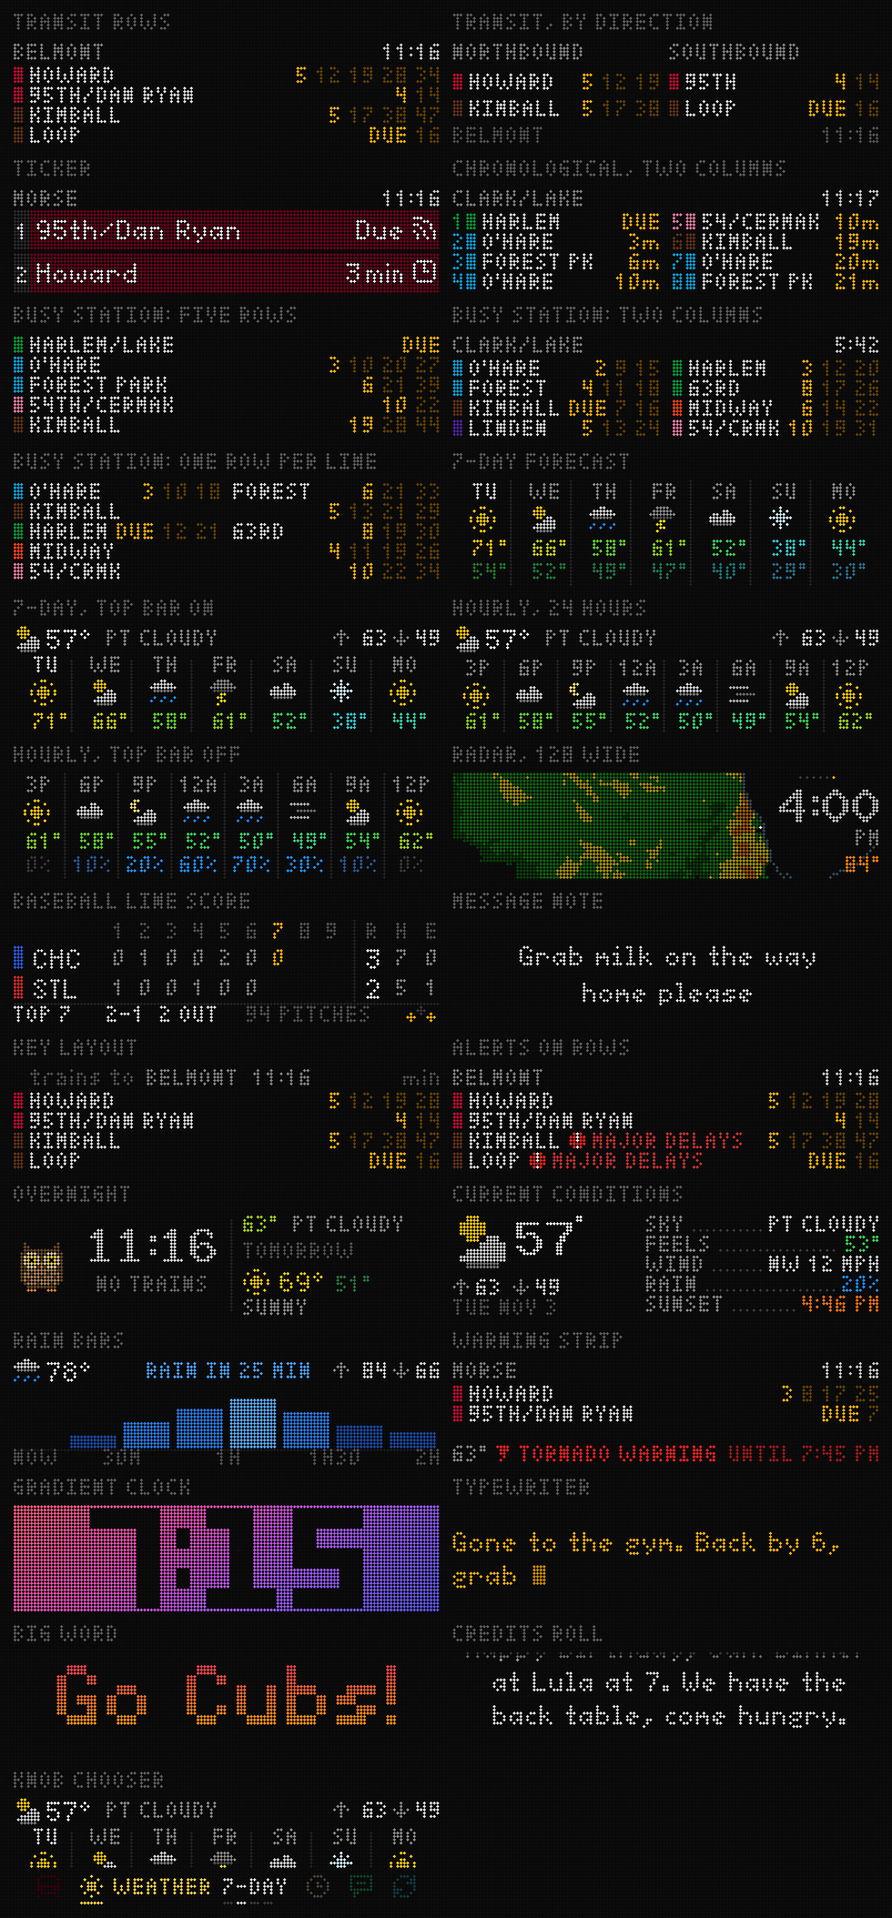
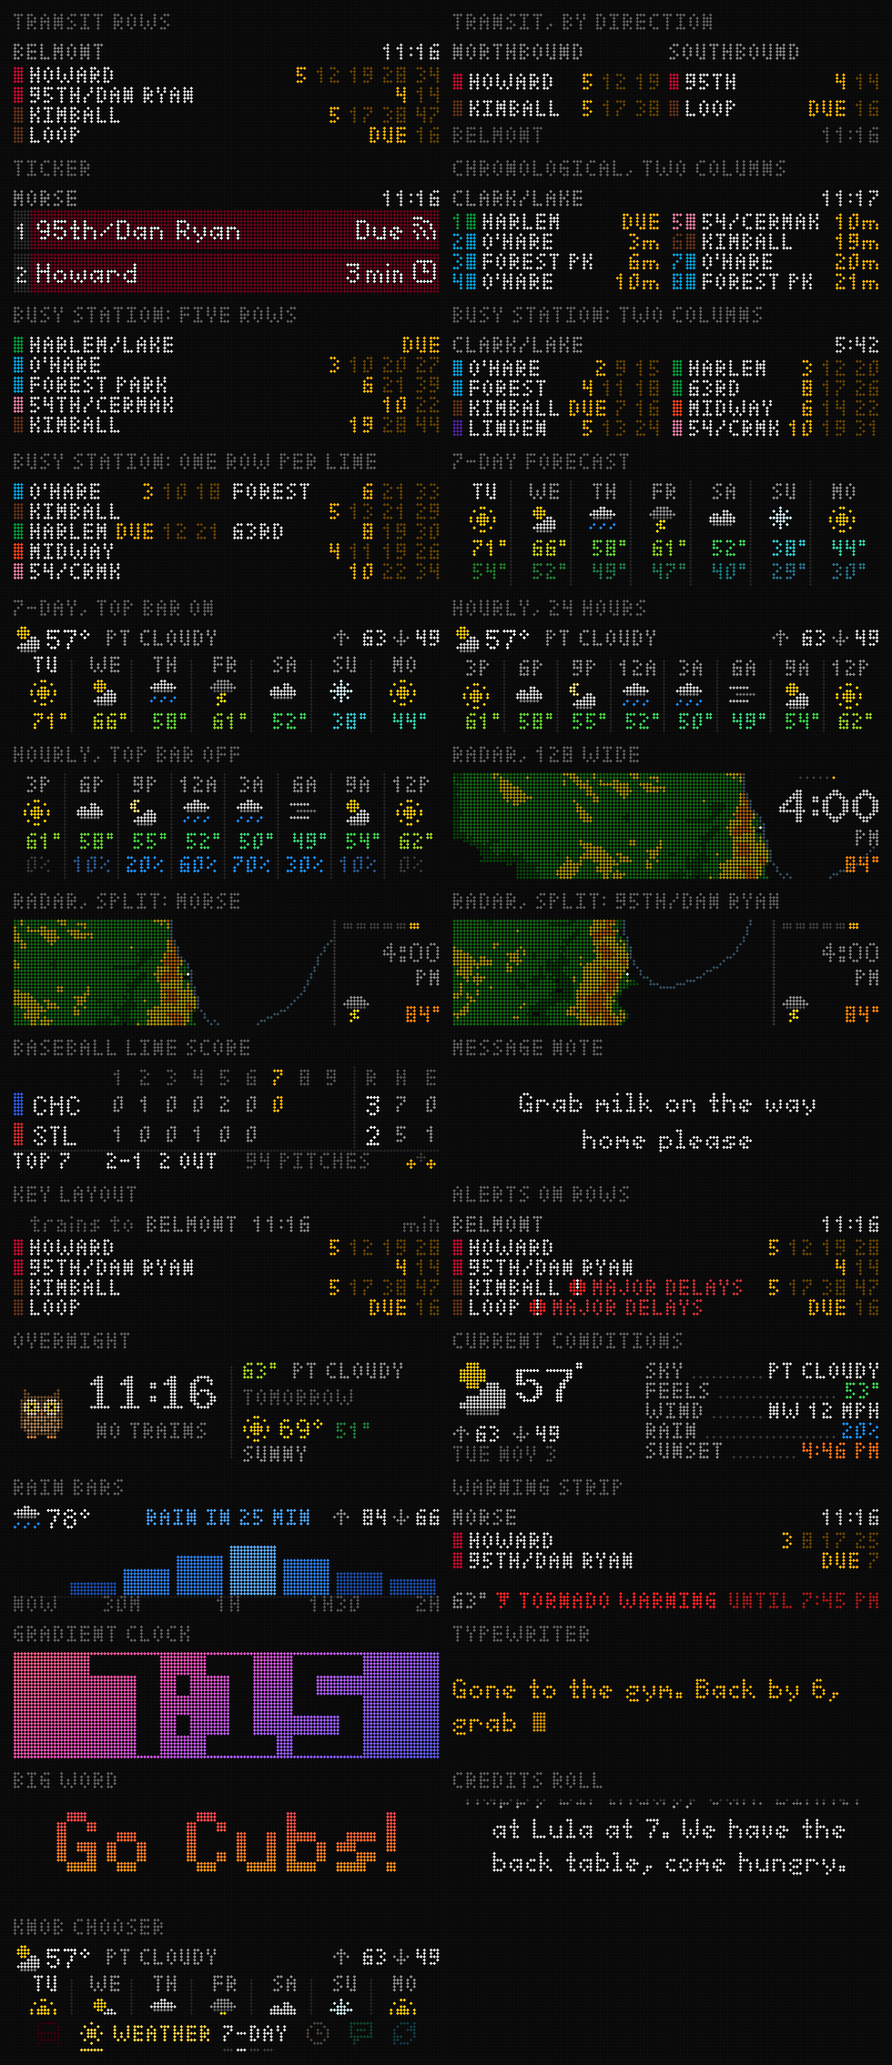
Plan the 128x32 screens (docs/board/wide-spec.md)
Every screen at 128 wide with its status from review: decided, liked,
first pass or open; open questions; and what the server, draw.js,
draw.cpp and firmware would need. Adds a split radar layout for every
station: a fixed time box over the lake fails at 56 of 144 stations.

Claude-Session: https://claude.ai/code/session_01G1nRWyZ7ESNyz7GfjXtnvu

diff --git a/scripts/mock-128-screens.js b/scripts/mock-128-screens.js
@@ -227,48 +227,66 @@ function hourly({ top = true } = {}) {
 }
 
 // Wide radar: a real MRMS frame (the Aug 10, 2020 derecho at 4 PM) cropped 128 LEDs wide.
-async function wideRadar() {
-  const stamp = '202008102100';
-  const st = require(path.join(B, 'stations.json')).find((x) => x.mapid === '40100'); // Morse
+// Radar layer: a real MRMS frame cropped `width` LEDs wide at 1.5 mi/LED with
+// the station at column `sx`, drawn into columns 0..width-1 of f. Water is
+// masked from the lake outline (as build-locations.js does per station at 64).
+async function radarLayer(f, mapid, width, sx, stamp = '202008102100') {
+  const st = require(path.join(B, 'stations.json')).find((x) => x.mapid === mapid);
   const wld = radar.parseWld(fs.readFileSync(path.join(B, 'fixtures', 'mrms', `lcref_${stamp}.wld`), 'utf8'));
-  // Centre the crop 28 LEDs west of the station, so it sits at x 92 and the lake fills the right side.
-  const KM = 1.5 * 1.609344, shift = 28;
+  const KM = 1.5 * 1.609344, shift = sx - Math.floor(width / 2);
   const lonC = st.lon - (shift * KM) / (111.32 * Math.cos(st.lat * Math.PI / 180));
-  const crop = await radar.crops(fs.createReadStream(path.join(B, 'fixtures', 'mrms', `lcref_${stamp}.png`)), wld, [{ key: 'k', lat: st.lat, lon: lonC, width: W }]);
+  const crop = await radar.crops(fs.createReadStream(path.join(B, 'fixtures', 'mrms', `lcref_${stamp}.png`)), wld, [{ key: 'k', lat: st.lat, lon: lonC, width }]);
   const { dbz } = crop.get('k');
-  // Water mask from the lake outline (what build-locations.js does per station at 64).
-  const lake = JSON.parse(fs.readFileSync(path.join(__dirname, 'geo-src', 'lake-michigan.geojson'), 'utf8')).features[0].geometry.coordinates;
-  const inPoly = (lon, lat) => lake.some((ring) => { let c = false; for (let i = 0, j = ring.length - 1; i < ring.length; j = i++) { const [xi, yi] = ring[i], [xj, yj] = ring[j]; if ((yi > lat) !== (yj > lat) && lon < ((xj - xi) * (lat - yi)) / (yj - yi) + xi) c = !c; } return c; }) ;
+  const rings = JSON.parse(fs.readFileSync(path.join(__dirname, 'geo-src', 'lake-michigan.geojson'), 'utf8')).features[0].geometry.coordinates;
+  const inR = (ring, lon, lat) => { let c = false; for (let a = 0, b = ring.length - 1; a < ring.length; b = a++) { const [xi, yi] = ring[a], [xj, yj] = ring[b]; if ((yi > lat) !== (yj > lat) && lon < ((xj - xi) * (lat - yi)) / (yj - yi) + xi) c = !c; } return c; };
   const colsPer = KM / (wld.dx * 111.32 * Math.cos(st.lat * Math.PI / 180)), rowsPer = KM / (Math.abs(wld.dy) * 111.32);
-  const sx = (lonC - wld.x0) / wld.dx, sy = (st.lat - wld.y0) / wld.dy;
-  const left = sx - (64 + 0.5) * colsPer, top = sy - (16 + 0.5) * rowsPer;
-  const water = new Uint8Array(W * H);
-  for (let y = 0; y < H; y++) for (let x = 0; x < W; x++) {
+  const cx = (lonC - wld.x0) / wld.dx, cy = (st.lat - wld.y0) / wld.dy;
+  const left = cx - (Math.floor(width / 2) + 0.5) * colsPer, top = cy - (16 + 0.5) * rowsPer;
+  const water = new Uint8Array(width * H);
+  for (let y = 0; y < H; y++) for (let x = 0; x < width; x++) {
     const lon = wld.x0 + (left + (x + 0.5) * colsPer) * wld.dx, lat = wld.y0 + (top + (y + 0.5) * rowsPer) * wld.dy;
-    water[y * W + x] = inPoly(lon, lat) ? 1 : 0;
+    water[y * width + x] = inR(rings[0], lon, lat) && !rings.slice(1).some((r) => inR(r, lon, lat)) ? 1 : 0;
   }
-  const RAIN = [15, 25, 35, 45, 55];
-  const lv = new Uint8Array(W * H);
+  const RAIN = [15, 25, 35, 45, 55], lv = new Uint8Array(width * H);
   for (let k = 0; k < lv.length; k++) { let n = 0; while (n < RAIN.length && dbz[k] >= RAIN[n]) n++; lv[k] = water[k] ? 0 : n; }
-  const f = new Frame(W, H);
-  for (let y = 0; y < H; y++) for (let x = 0; x < W; x++) {
-    const v = lv[y * W + x];
+  for (let y = 0; y < H; y++) for (let x = 0; x < width; x++) {
+    const v = lv[y * width + x];
     if (!v) continue;
     let n = 0;
-    for (let dy = -1; dy <= 1; dy++) for (let dx = -1; dx <= 1; dx++) if ((dx || dy) && x + dx >= 0 && y + dy >= 0 && x + dx < W && y + dy < H && lv[(y + dy) * W + x + dx]) n++;
+    for (let dy = -1; dy <= 1; dy++) for (let dx = -1; dx <= 1; dx++) if ((dx || dy) && x + dx >= 0 && y + dy >= 0 && x + dx < width && y + dy < H && lv[(y + dy) * width + x + dx]) n++;
     if (n >= 2) f.set(x, y, hex(draw.RADAR[v]));
   }
-  for (let y = 0; y < H; y++) for (let x = 0; x < W; x++) {
-    if (!water[y * W + x]) continue;
-    const land = [[1, 0], [-1, 0], [0, 1], [0, -1]].some(([dx, dy]) => { const xx = x + dx, yy = y + dy; return xx >= 0 && yy >= 0 && xx < W && yy < H && !water[yy * W + xx]; });
+  for (let y = 0; y < H; y++) for (let x = 0; x < width; x++) {
+    if (!water[y * width + x]) continue;
+    const land = [[1, 0], [-1, 0], [0, 1], [0, -1]].some(([dx, dy]) => { const xx = x + dx, yy = y + dy; return xx >= 0 && yy >= 0 && xx < width && yy < H && !water[yy * width + xx]; });
     if (land) f.set(x, y, hex(draw.RADAR[6]));
   }
-  f.set(64 + shift, 16, [255, 255, 255]);
-  // Time stack over the lake, as in the 64 layout.
+  f.set(sx, 16, [255, 255, 255]);
+}
+
+// Wide radar over the lake: the station at x 92, the time stack over the water.
+async function wideRadar() {
+  const f = new Frame(W, H);
+  await radarLayer(f, '40100', W, 92);
   rtext(f, 'clock', '4:00', 127, 15, C.clock);
   rtext(f, 'small', 'PM', 127, 22, C.radarAmpm);
   rtext(f, 'small', '84°', 127, 30, tempColor(84));
   for (let i = 0; i < 6; i++) f.set(104 + i * 2, 1, hex(i === 5 ? C.amber : C.indicator));
+  return f;
+}
+
+// Split radar, every station: the map on columns 0-95 with the station at
+// x 52 (more room west, where storms come from), a divider on column 96 and
+// a 31-column panel: frame pips, time and AM/PM, conditions at the bottom.
+async function splitRadar(mapid) {
+  const f = new Frame(W, H);
+  await radarLayer(f, mapid, 96, 52);
+  f.fill(96, 0, 1, 32, C.divider);
+  for (let i = 0; i < 6; i++) f.fill(99 + i * 4, 1, 3, 2, i === 5 ? C.amber : C.indicator);
+  rtext(f, '5x7', '4:00', 127, 13, C.radarTime);
+  rtext(f, 'small', 'PM', 127, 20, C.radarAmpm);
+  icon(f, 'storm', 99, 23);
+  rtext(f, 'small', '84°', 127, 31, tempColor(84));
   return f;
 }
 
@@ -531,7 +549,9 @@ async function main() {
     ['redrawn', 'seven-day-top', '7-day, top bar on', 'The current-conditions bar as an option: with it on, the lows drop out.', '', sevenDay({ top: true })],
     ['redrawn', 'hourly', 'Hourly, 24 hours', 'Eight 3-hour steps under the top bar.', 'The server builds 4 slots today (HOUR_STEPS); the NWS hourly feed covers more.', hourly()],
     ['redrawn', 'hourly-notop', 'Hourly, top bar off', 'Without the bar the freed rows carry each slot\'s rain chance (bright from 20%).', '', hourly({ top: false })],
-    ['redrawn', 'radar', 'Radar, 128 wide', 'A real MRMS frame (the Aug 10, 2020 derecho) cropped 128 LEDs wide: about 190 mi of the region instead of 95. The station sits right of center; the time stack moves over the lake.', 'Each station needs a new water mask at 128 (built here from the lake outline).', null],
+    ['redrawn', 'radar', 'Radar, 128 wide', 'A real MRMS frame (the Aug 10, 2020 derecho) cropped 128 LEDs wide, the time over the lake. Works for Morse, but no fixed spot for the time box is open water for all stations: it fails at 56 of 144 (the South Side and the Loop, where the box reaches the Indiana shore).', 'Checked against every station in stations.json with the lake outline.', null],
+    ['redrawn', 'radar-split', 'Radar, split: Morse', 'One layout for every station: the map on 96 columns with the station at x 52, so it shows about 78 mi west (where storms come from) and the lake to the Michigan shore; the time and conditions in a 31-column panel.', 'Real MRMS frame, Aug 10, 2020, 4 PM (the derecho).', null],
+    ['redrawn', 'radar-split-south', 'Radar, split: 95th/Dan Ryan', 'The same layout at a South Side station, where no fixed spot over the lake works for the time.', 'Same frame.', null],
     ['redrawn', 'line-score', 'Baseball line score', 'Runs by inning, R H E, then the count, outs, pitch count and bases.', 'The innings come in the linescore the server already fetches; the pitch count would need a field added.', lineScore()],
     ['redrawn', 'note', 'Message note', 'About 21 characters a line in 5x7 instead of 10.', '', note()],
     ['more', 'key-layout', 'Key layout', 'The column key on the top row (trains to, min), with the station and clock between them instead of moving to the bottom.', 'Real Belmont times.', keyLayout()],
@@ -540,13 +560,15 @@ async function main() {
     ['more', 'now', 'Current conditions', 'A 2x icon and the temperature in the clock digits, high/low and date under them; the readout (sky, feels, wind, rain, sunset) beside, with dot leaders.', '', nowReadout()],
     ['more', 'rain-bars', 'Rain bars', 'The eight quarter-hours across the full width, 16 px each, with time marks under them; light, moderate and heavy in three blues.', '', rainBars()],
     ['more', 'warning', 'Warning strip', 'The warning spelled out on the bottom strip: funnel, TORNADO WARNING and the expiry, with the temperature at left.', 'The 64 strip has room for WARNING only. Blinks as it does now.', warningStrip()],
-    ['more', 'gradient', 'Gradient clock', 'The same block digits widened to 21 x 30 (7 x 6 blocks) so the time fills the width as it does at 64; the gradient spans all 128 columns.', '12:58 is 110 px wide.', gradient()],
+    ['more', 'gradient', 'Gradient clock', 'The same block digits widened to 21 x 30 (7 x 6 blocks) so the time fills the width as it does at 64; the gradient spans all 128 columns.', '12:58 is 108 px wide.', gradient()],
     ['more', 'typewriter', 'Typewriter', 'About 21 characters a line instead of 10, so most notes fit in two lines. Shown mid-typing.', '', typewriter()],
     ['more', 'big-word', 'Big word', 'At 3x instead of 2x: 21 px letters, up to about 7 characters; longer words drop to 2x (about 10).', '', bigWord()],
     ['more', 'credits', 'Credits roll', 'Wider lines mean fewer of them; the roll and its fade at the edges stay the same.', 'Mid-roll.', credits()],
     ['more', 'chooser', 'Knob chooser', 'The peek chooser with room to name things: the chosen category and its variant are spelled out beside its icon, with one pip per variant under the name.', 'The view on top is the 7-day with the top bar.', chooser()],
   ];
   MOCKS.find((m) => m[1] === 'radar')[5] = await wideRadar();
+  MOCKS.find((m) => m[1] === 'radar-split')[5] = await splitRadar('40100');
+  MOCKS.find((m) => m[1] === 'radar-split-south')[5] = await splitRadar('40450');
 
   const q5 = (v) => v & 0xf8;
   fs.mkdirSync(OUT, { recursive: true });

diff --git a/docs/board/wide-spec.md b/docs/board/wide-spec.md
@@ -1,0 +1,154 @@
+# CTA LED Board: Wide Board (128 × 32) Screen Plan
+
+**Status: planned, not built.** How each screen should look on a board of two 64 × 32 panels chained (128 × 32). Nothing in `server/board/` or the firmware supports the width yet; §11 lists what would have to change. Anything this plan doesn't mention works as in [`design-spec.md`](design-spec.md) (fonts, colors, row anatomy, animations, fitting rules).
+
+Mockups: `docs/board/mockups/w128/`, rendered by `scripts/mock-128-screens.js`, `mock-128-clocks.js` and `mock-128-worldmap.js` with the board's fonts and LED preview. Decisions from the review of Nov 4, 2026; each section says whether it's **decided**, **liked**, a **first pass**, or **open**.
+
+---
+
+## 1. Hardware
+
+| Item | Notes |
+|---|---|
+| Panels | Two 64 × 32 P4 panels chained: 512 × 128 mm, twice the length of the current bar case. |
+| Driver | The S3's ESP32-HUB75-MatrixPanel-DMA driver chains panels (chain length 2). The frame buffer and the power at full white double. |
+| Board | Matrix Portal S3 only. The frozen M4 stays 64 wide. |
+
+## 2. Principles
+
+- **One screen, not two.** Use the width; don't put two existing 64-wide screens side by side. The exceptions are splits whose halves mean something (northbound | southbound) and designed side panels (the day/night sun panel, the analog calendar).
+- **Same type, colors and rows as 64.** Tom Thumb, 5x7, the clock digits; 5 px text rows at the 64 layouts' pitches (6 px with a header, 8 px for three rows); the same header, amber/dim times, line blocks and glyphs. Text runs to the edges (x0 and x127).
+- **Where the width goes:** full names, more times per row, more destinations, more forecast slots, and words spelled out where 64 uses a glyph or a cut name.
+- **Halves** (splits, two-column lists): columns 0–61 and 65/66–127, a 3–4 px gutter between them.
+
+---
+
+## 3. Transit
+
+### Destination rows (decided)
+- Same anatomy and row geometry as 64 (§5): header on rows 0–6 (station `#808080` left, clock right), rows at 8, 14, 20, 26 with four rows, 1, 7, 13, 19, 25 with five and no header.
+- **Full CTA names** (`95TH/DAN RYAN`, `FOREST PARK`), **up to 5 times** per row, right-aligned as a group as now. A time is dropped when it would come within 3 px of the name.
+- **No weather in the header** (station and clock only). The weather strip stays an option as at 64.
+
+### Northbound | southbound split (liked)
+- Two halves, a direction label on row 0 of each (`NORTHBOUND`, `SOUTHBOUND`), rows at 10 and 18 (2 rows) in each half, station and clock on the bottom row in `#555555`.
+- A per-board layout choice next to header and key. Halves come from each train's direction code (`trDr` in Train Tracker). Labels per line pair need a small table (Loop lines aren't north/south).
+
+### Busy stations, replacing the chronological view (open)
+The chronological view is the weakest transit screen. For stations with 4–5 lines (Clark/Lake), three layouts were mocked:
+1. **One row per line:** up to 5 lines; a line's second destination starts at column 66 (`O'HARE 3 10 18 | FOREST 6 21 33`). Short names (`destinations.js`), three times per destination.
+2. **Two columns of four under the header:** up to 8 destinations, short names, three times each.
+3. **Five rows, no header:** full names; only for five destinations or fewer.
+
+**Proposed fitting order:** destination rows (as many as fit) → one row per line (≤ 5 lines, ≤ 2 destinations each) → two columns (≤ 8) → chronological view as the last resort. Re-checked on every update, as now.
+
+### Key layout (first pass)
+`trains to` (x5) and `min` (right) on row 0 as now, with the station and clock centered between them, so the station line at the bottom isn't needed.
+
+### Alerts (first pass)
+The full destination, the red alert circle, then the alert's **short label in red** (`MAJOR DELAYS`), then the times. Needs a new payload field with a short label per alert; the board knows only that a line has a major alert today.
+
+### Overnight, no data, stale (first pass)
+Owl and big clock with `NO TRAINS` as now in columns 0–62; a dim divider on column 65; the right side shows the current temperature and condition, then `TOMORROW` with icon, high (5x7) and low, and the condition. `NO DATA` and stale use the same layout with the red line across the top.
+
+### Ticker (decided)
+After the CTA's platform signs:
+- Bands at rows 7–18 and 20–31; the grey index column (0–4) with the **row number**; the band in the line color at 55 % from column 5 to 127.
+- **Full destination** in 5x7 at x7 (`95th/Dan Ryan`).
+- **Time at the far right** (`Due`, `3 min`, the min glyph as now), 3 px clear of the status icon.
+- **Status icon**, 7 × 7 at columns 120–126: three arcs for a live train, a clock face for a schedule-based one (`isSch`).
+- Pages of two, as now.
+
+### Warnings on the weather strip (first pass)
+Spelled out: glyph, `TORNADO WARNING` and `UNTIL 7:45 PM` in a dimmer red, the temperature at left. Needs the alert's expiry in the payload. Blinking as now.
+
+---
+
+## 4. Weather
+
+### Top bar (decided: optional)
+The current-conditions bar (icon, temperature, condition, ↑high ↓low) becomes a **per-board setting**. Off, its eight rows go to the layout below; on, layouts give something up (below).
+
+### 7-day forecast (liked)
+Seven 18-px columns split by dim dividers: weekday, icon, high (temperature color), low (60 %). With the top bar on, the lows drop out. NWS already gives seven days.
+
+### Hourly, 24 hours (liked)
+Eight 16-px columns, 3 hours apart: time, icon, temperature. With the top bar off, a fourth line shows each slot's rain chance (blue from 20 %, dim below). The server builds 4 slots today (`HOUR_STEPS`); the NWS hourly feed covers 24 hours.
+
+### Current conditions (first pass)
+A 2× icon (16 × 16) and the temperature in the clock digits, high/low and date under them on the left; the readout on the right (columns 58–127) with dot leaders: `SKY`, `FEELS`, `WIND`, `RAIN`, `SUNSET`.
+
+### Rain bars (first pass)
+The top bar with the title centered (`RAIN IN 25 MIN`); the eight quarter-hours across the full width (16 px each, 14 px bars), the same intensity scale and blues; `NOW 30M 1H 1H30 2H` under the axis.
+
+---
+
+## 5. Radar (open; proposed: split for every station)
+
+At 64, each station gets a full-width map with the time over open water, or a split layout when there's no water there (114 of 144 stations get full width). At 128 that doesn't carry over:
+
+- **A fixed time box over the lake fails at 56 of 144 stations.** Checked against `stations.json` and the lake outline at 1.5 mi per LED, a 24 × 22 box: south of downtown and in the Loop it runs into the Indiana shore. Lake Michigan is only about 37 LEDs wide at Chicago's latitude, so the Michigan shore also enters the view.
+- **Proposal: one split layout for all stations.** Map on columns 0–95 with the station at x52 (about 78 mi west, where storms come from; the lake to the Michigan shore east), a divider on column 96, and a 31-column panel: frame pips, the time in 5x7 with AM/PM, the condition icon and temperature at the bottom. Same scale (1.5 mi per LED), colors, water mask and shoreline as 64; masks rebuilt per station at 96 wide (`build-locations.js`).
+- Radar frames grow from 2 KB to 3 KB (96 × 32).
+
+---
+
+## 6. Clock faces
+
+### Day/night map (decided)
+- The map at true shape on all 32 rows: **80 × 32 at 4.5° per pixel**, 84° N to 60° S, built like the 64 map (`build-world.js`: Natural Earth land, Blue Marble colors). No bottom time bar.
+- **Sun panel** on columns 83–127: the time in 5x7 with AM/PM; a divider; sunrise and sunset, each as a **half sun on the horizon** (7 × 5) in the time's color, then the up or down arrow, then the time; then day length (`DAY 10H 24M`). Sunrise and sunset computed by the server (NOAA's approximation).
+
+### Seventies (decided)
+The three stripes run along the bottom, climb at columns 62–69, and run along the top to the right edge; the top turn on the same 2 px band as the climb and the runs. The time in the VCR digits on the left, banded as at 64; under the top run, the **weekday in full** (`TUESDAY`), then `NOV 3` and the temperature.
+
+### Analog + calendar (liked)
+The analog face (columns 0–33) and the month in seven 13-px columns: five week rows at a 6 px pitch, no weekday header, weekends dimmer, today on an amber block. The calendar replaces the face's date and temperature.
+
+### Word clock (liked, wide only)
+Every word on the grid stays faintly lit (`#2a2a2a`); the words that tell the time light amber, rounded to five minutes (`IT IS TWENTY MINUTES TO TEN IN THE EVENING`). A 64-wide version is possible: 16 × 5 run-together letters with shared letters (`SEVENINEIGHTWO`), no `IT IS`/`MINUTES`, AM/PM in the spare cells, and M and W drawn 3 px wide.
+
+### Gradient (first pass)
+The same block digits widened to 7 × 6 blocks (21 × 30), so the time fills the width as at 64 (`12:58` is 108 px); the gradient spans all 128 columns.
+
+### Skyline (open)
+Two directions, both using the real renderer patched to 128 columns:
+- **Panorama:** the 64 scene in the middle, the South Loop added on the left and the Gold Coast stepping down to the beach on the right. Needs new building art.
+- **Big clock:** the 64 scene on the left, open lake and sky on the right with the time in the clock digits and the date over the water.
+Most of the skyline code already takes its width from a variable, and the server's cloud strip is already 128 wide.
+
+---
+
+## 7. Announce
+
+- **Note, typewriter:** about 21 characters a line in 5x7 (10 at 64), the same line bases.
+- **Big word:** 3× instead of 2× (21-px letters) for up to about 7 characters; longer words drop to 2× (about 10).
+- **Credits roll:** unchanged apart from the longer lines.
+
+## 8. Baseball
+
+- **Line score (first pass):** innings 1–9, R H E, then the inning, count, outs, pitch count and bases on the bottom row. The innings are in the linescore the server already fetches; the pitch count isn't.
+- The classic, logo and band layouts and the other game states aren't planned yet.
+
+## 9. Knob chooser (first pass)
+
+The peek chooser as at 64 (the chosen view on rows 0–20, the bar on 21–31), with room to name things: the chosen category's icon, its name in its color and the variant name (`WEATHER 7-DAY`), with one pip per variant under the variant name. The other categories stay icons only.
+
+---
+
+## 10. Open questions
+
+- Busy-station layout: confirm the fitting order in §3, or pick one layout.
+- Radar: the split proposal in §5.
+- Skyline: panorama or big clock; building art.
+- Direction labels for the split at Loop and branch stations.
+- Baseball beyond the line score.
+
+## 11. What the software would need (not started)
+
+- **The board's width.** A per-board `cols` setting (64 or 128) in the S3's flash, sent with each `/board/update`; the server stores it per board. Payloads stay additive: a 64 board gets exactly what it gets today.
+- **Server layouts by width.** `arrivals.js` (rows, fitting, the busy-station chain), weather slots (7 days, 8 hours), radar crop width and masks, sun times, alert labels and expiries: chosen per board width.
+- **`draw.js` and `draw.cpp`.** Replace the hard-coded 64s with the frame width, one screen at a time; new layouts behind the width. Parity scenarios at both widths (`firmware/tests/scenarios.js`).
+- **Assets.** Fonts unchanged; new glyphs (live and scheduled icons, half sun, 3 px M and W) and the 80 × 32 world map, generated as now.
+- **Simulator and control page** previews at 128.
+- **Firmware.** Chain length from the `cols` setting; radar frame buffers for 96 × 32.

diff --git a/docs/board/design-spec.md b/docs/board/design-spec.md
@@ -2,6 +2,8 @@
 
 Adafruit Matrix Portal driving a 64x32 HUB75 RGB matrix. Decisions from the design sessions of Oct 2–4, 2026. All mocks used made-up train times unless noted.
 
+A wider board (two panels, 128x32) is planned but not built: [`wide-spec.md`](wide-spec.md).
+
 ---
 
 ## 1. Hardware
